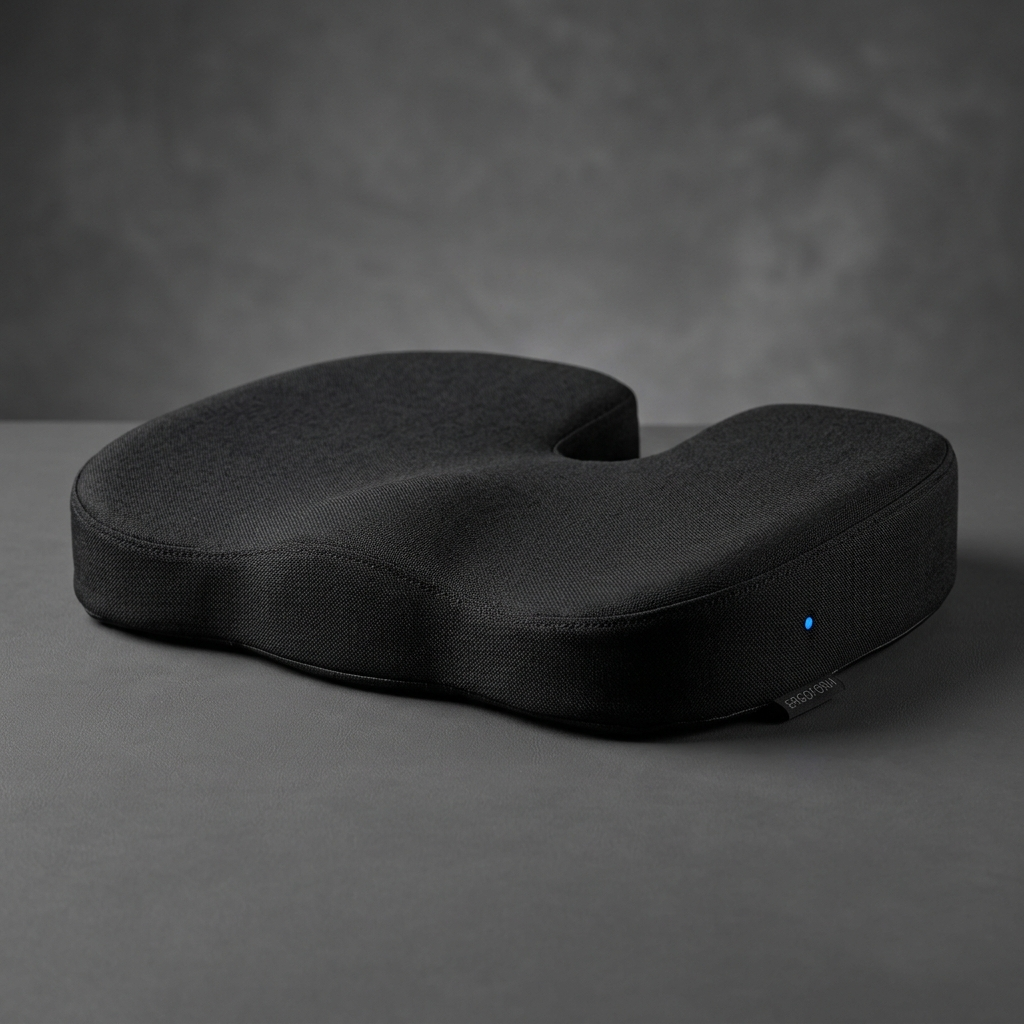
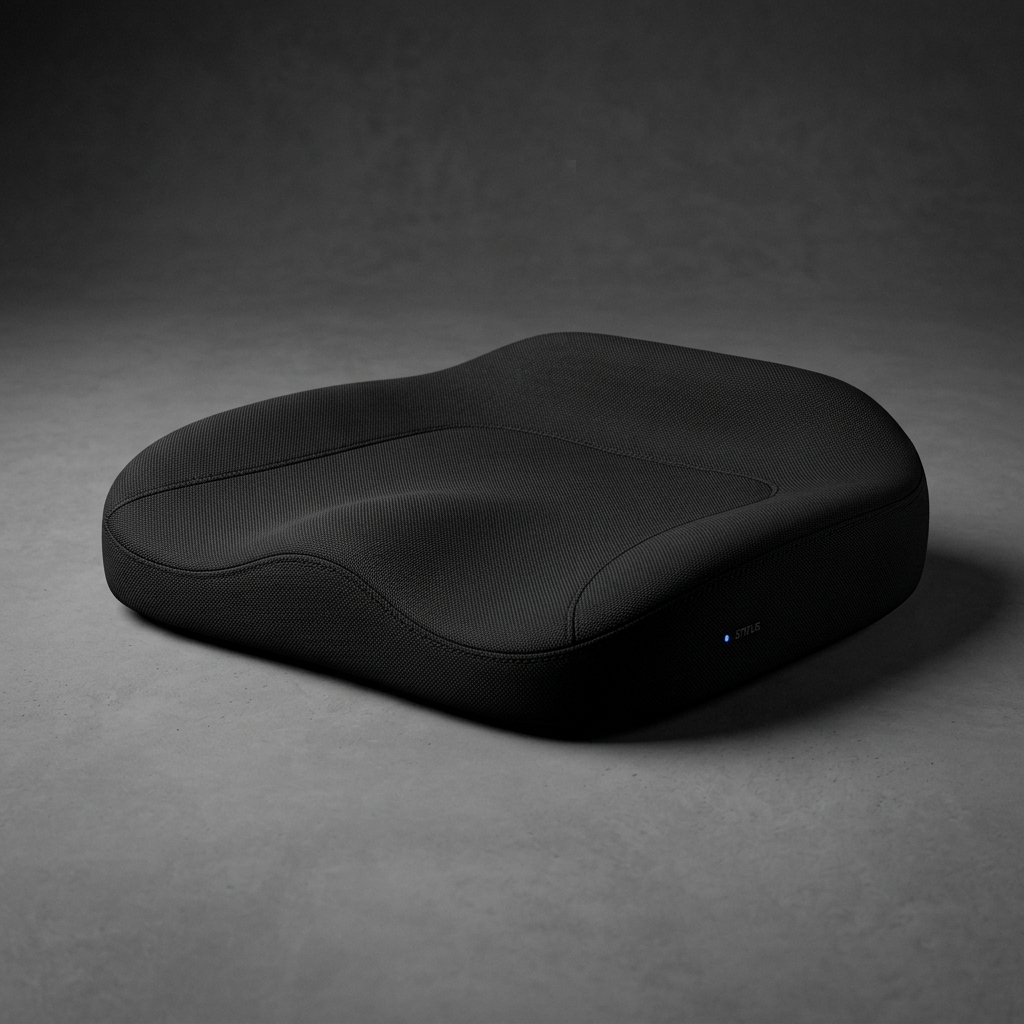
Update to full-back cushion images and significantly increase scroll speed across all pages

diff --git a/src/components/SolutionsScroll.tsx b/src/components/SolutionsScroll.tsx
@@ -1,42 +1,45 @@
 "use client";
 import React, { useRef } from "react";
 import { motion, useScroll, useTransform, useSpring } from "framer-motion";
-import { SparklesCore } from "./ui/SparklesCore";
+import { AlertCircle, Zap, Shield, Heart } from "lucide-react";
 
-const problems = [
+const solutions = [
   {
     title: "The Silent Crisis",
-    description: "Modern work environments force us into static positions for hours, leading to chronic back pain and long-term spinal issues.",
-    image: "/problem-1.png",
+    problem: "Poor sitting habits cost the global economy $120B in healthcare every year.",
+    solution: "Smart-Cushion detects micro-posture shifts before they become chronic pain.",
+    icon: AlertCircle,
     color: "text-red-500",
-    glow: "rgba(239, 68, 68, 0.4)"
+    image: "/problem-1.png"
   },
   {
     title: "Concentration Drain",
-    description: "Poor posture restricted blood flow and oxygen to the brain, causing fatigue and a significant drop in mental focus.",
-    image: "/problem-2.png",
+    problem: "Discomfort reduces cognitive performance by 25% within just 2 hours.",
+    solution: "Stay in the flow zone with gentle ergonomic reminders that keep you focused.",
+    icon: Zap,
     color: "text-yellow-500",
-    glow: "rgba(234, 179, 8, 0.4)"
+    image: "/problem-2.png"
   },
   {
     title: "Spinal Integrity",
-    description: "Continuous pressure on lumbar discs can lead to permanent damage. Early detection is the only true prevention.",
-    image: "/problem-3.png",
-    color: "text-orange-500",
-    glow: "rgba(249, 115, 22, 0.4)"
+    problem: "Long-term slouching leads to permanent vertebral misalignment.",
+    solution: "Our medical-grade sensors ensure your spine maintains its natural S-curve.",
+    icon: Shield,
+    color: "text-blue-500",
+    image: "/problem-3.png"
   },
   {
     title: "Health Ecosystem",
-    description: "Sitting is the new smoking. Without active monitoring, the risks of cardiovascular and metabolic issues increase daily.",
-    image: "/problem-4.png",
-    color: "text-rose-500",
-    glow: "rgba(244, 63, 94, 0.4)"
-  }
+    problem: "Most health tracking stops the moment you sit down at your desk.",
+    solution: "Integrate your sitting data into your complete wellness profile automatically.",
+    icon: Heart,
+    color: "text-emerald-500",
+    image: "/problem-4.png"
+  },
 ];
 
 export const SolutionsScroll = () => {
   const containerRef = useRef<HTMLDivElement>(null);
-  
   const { scrollYProgress } = useScroll({
     target: containerRef,
     offset: ["start start", "end end"],
@@ -48,110 +51,130 @@ export const SolutionsScroll = () => {
     restDelta: 0.001,
   });
 
-  const itemsCount = problems.length + 2; 
+  // 1 Intro + 4 Solutions + 1 Closing = 6 sections
+  const sections = Array.from({ length: 6 });
+  const itemsCount = sections.length;
 
   return (
-    <div ref={containerRef} className="relative h-[800vh] bg-black">
+    <div ref={containerRef} className="relative h-[500vh] bg-neutral-950 scroll-snap-container">
+      {/* Invisible Snap Points */}
+      <div className="absolute inset-0 pointer-events-none">
+        {sections.map((_, i) => (
+          <div key={i} className="h-[calc(500vh/6)] w-full" style={{ scrollSnapAlign: "start" }} />
+        ))}
+      </div>
+
       <div className="sticky top-0 h-screen w-full flex items-center overflow-hidden">
-        
-        {/* Background Sparkles */}
-        <div className="absolute inset-0 z-0">
-          <SparklesCore
-            id="solutionsParticles"
-            background="transparent"
-            minSize={0.4}
-            maxSize={1.2}
-            particleDensity={50}
-            className="w-full h-full"
-            particleColor="#FFFFFF"
-          />
+        {/* Atmospheric Background */}
+        <div className="absolute inset-0 opacity-20">
+          <div className="absolute top-0 left-0 w-full h-full bg-[radial-gradient(circle_at_50%_50%,#3b82f633,transparent_70%)]" />
         </div>
 
-        <div className="relative w-full h-full">
-          
-          {/* 0. Intro Slide */}
-          <motion.div
-            style={{
-              opacity: useTransform(smoothProgress, [0, 0.1, 0.15], [1, 1, 0]),
-              y: useTransform(smoothProgress, [0, 0.1, 0.15], [0, 0, -50]),
-            }}
-            className="absolute inset-0 flex flex-col items-center justify-center text-center px-4"
-          >
-            <h1 className="text-5xl md:text-9xl font-bold text-white mb-8 tracking-tighter">
-              A Journey through <br/> <span className="text-primary italic">the Problem</span>
-            </h1>
-            <p className="text-xl text-neutral-400 max-w-2xl leading-relaxed">
-              Before we talk about the solution, we must understand the silent impact of our modern lifestyle on our bodies.
-            </p>
-            <motion.div 
-              animate={{ y: [0, 10, 0] }}
-              transition={{ duration: 2, repeat: Infinity }}
-              className="mt-12 text-primary/40 text-xs font-mono tracking-[0.5em] uppercase"
+        <div className="container mx-auto px-6 relative z-10">
+          <div className="relative h-[80vh]">
+            
+            {/* Intro Slide */}
+            <motion.div
+              style={{
+                opacity: useTransform(smoothProgress, [0, 0.12, 0.18], [1, 1, 0]),
+                y: useTransform(smoothProgress, [0, 0.12, 0.18], [0, 0, -50]),
+              }}
+              className="absolute inset-0 flex flex-col justify-center items-center text-center"
             >
-              Scroll to explore the crisis
+              <h2 className="text-5xl lg:text-8xl font-bold text-white mb-8 tracking-tighter">
+                A Journey through <br/>
+                <span className="text-primary italic text-gradient bg-clip-text text-transparent bg-gradient-to-r from-blue-500 to-cyan-400">
+                  the Problem.
+                </span>
+              </h2>
+              <p className="text-xl text-neutral-400 max-w-2xl leading-relaxed">
+                Understanding the silent impact of sedentary lifestyles is the first step toward a revolutionary recovery.
+              </p>
             </motion.div>
-          </motion.div>
 
-          {/* 1-4. Problem Slides with Illustrations */}
-          {problems.map((prob, index) => {
-            const activePoint = (index + 1.2) / itemsCount;
-            const range = 0.08;
+            {/* Solution Slides */}
+            {solutions.map((item, index) => {
+              const activePoint = (index + 1.2) / itemsCount;
+              const range = 0.08;
 
-            const opacity = useTransform(smoothProgress, [activePoint - range, activePoint, activePoint + range], [0, 1, 0]);
-            const scale = useTransform(smoothProgress, [activePoint - range, activePoint, activePoint + range], [0.95, 1, 0.95]);
-            const x = useTransform(smoothProgress, [activePoint - range, activePoint, activePoint + range], [30, 0, -30]);
+              const opacity = useTransform(smoothProgress, [activePoint - range, activePoint, activePoint + range], [0, 1, 0]);
+              const x = useTransform(smoothProgress, [activePoint - range, activePoint, activePoint + range], [100, 0, -100]);
+              const scale = useTransform(smoothProgress, [activePoint - range, activePoint, activePoint + range], [0.9, 1, 0.9]);
 
-            return (
-              <motion.div
-                key={index}
-                style={{ opacity, scale, x }}
-                className="absolute inset-0 flex flex-col lg:flex-row items-center justify-center px-10 lg:px-32 gap-16"
-              >
-                {/* Illustration Column */}
-                <div className="flex-1 w-full max-w-2xl relative group">
-                  <div className="absolute -inset-4 bg-gradient-to-tr from-primary/20 to-transparent rounded-[2rem] blur-2xl opacity-50 group-hover:opacity-75 transition-opacity" />
-                  <div className="relative rounded-[2rem] overflow-hidden border border-white/10 shadow-2xl shadow-black/50">
+              return (
+                <motion.div
+                  key={index}
+                  style={{ opacity, x, scale }}
+                  className="absolute inset-0 flex flex-col lg:flex-row items-center gap-12 lg:gap-20"
+                >
+                  {/* Left Side: Cinematic Illustration */}
+                  <div className="flex-1 w-full h-[40vh] lg:h-[60vh] rounded-[2.5rem] overflow-hidden border border-white/10 shadow-2xl relative group">
                     <img 
-                      src={prob.image} 
-                      alt={prob.title} 
-                      className="w-full h-auto object-cover transform transition-transform duration-700 group-hover:scale-105"
+                      src={item.image} 
+                      alt={item.title} 
+                      className="w-full h-full object-cover transition-transform duration-700 group-hover:scale-110" 
                     />
                     <div className="absolute inset-0 bg-gradient-to-t from-black/80 via-transparent to-transparent" />
+                    <div className="absolute bottom-8 left-8">
+                       <div className={`p-4 rounded-2xl bg-black/50 backdrop-blur-md border border-white/10 ${item.color}`}>
+                         <item.icon size={32} />
+                       </div>
+                    </div>
                   </div>
-                </div>
 
-                {/* Text Column */}
-                <div className="flex-1 text-left">
-                  <span className="text-sm font-mono text-primary mb-4 block uppercase tracking-[0.3em]">Crisis Chapter 0{index + 1}</span>
-                  <h2 className="text-4xl lg:text-7xl font-bold text-white mb-8 leading-tight">
-                    {prob.title}
-                  </h2>
-                  <p className="text-xl lg:text-2xl text-neutral-400 max-w-xl leading-relaxed">
-                    {prob.description}
-                  </p>
-                </div>
-              </motion.div>
-            );
-          })}
+                  {/* Right Side: Text Content */}
+                  <div className="flex-1 text-left">
+                    <span className={`text-sm font-mono uppercase tracking-widest mb-4 block ${item.color}`}>
+                      Challenge {index + 1}
+                    </span>
+                    <h3 className="text-4xl lg:text-6xl font-bold text-white mb-8 leading-tight">
+                      {item.title}
+                    </h3>
+                    
+                    <div className="space-y-8">
+                      <div className="p-6 rounded-2xl bg-white/5 border border-white/10 backdrop-blur-sm">
+                        <p className="text-red-400/80 text-sm font-bold uppercase mb-2">The Crisis</p>
+                        <p className="text-lg text-neutral-300">{item.problem}</p>
+                      </div>
+                      
+                      <div className="p-6 rounded-2xl bg-primary/10 border border-primary/20 backdrop-blur-sm">
+                        <p className="text-primary text-sm font-bold uppercase mb-2">The Solution</p>
+                        <p className="text-lg text-white font-medium">{item.solution}</p>
+                      </div>
+                    </div>
+                  </div>
+                </motion.div>
+              );
+            })}
 
-          {/* 5. Outro Slide */}
-          <motion.div
-            style={{
-              opacity: useTransform(smoothProgress, [0.9, 0.95], [0, 1]),
-              y: useTransform(smoothProgress, [0.9, 0.95], [50, 0]),
-            }}
-            className="absolute inset-0 flex flex-col items-center justify-center text-center px-4"
-          >
-            <h2 className="text-4xl lg:text-8xl font-bold text-white mb-12 leading-tight tracking-tighter">
-              Understanding is <br/> 
-              <span className="text-primary italic font-serif">the first step.</span>
-            </h2>
-            <a href="/features" className="px-12 py-6 bg-primary text-white rounded-full font-bold text-2xl hover:scale-105 transition-transform shadow-[0_0_50px_rgba(var(--primary),0.3)]">
-              Discover the Solution
-            </a>
-          </motion.div>
+            {/* Closing Slide */}
+            <motion.div
+              style={{
+                opacity: useTransform(smoothProgress, [0.85, 0.95], [0, 1]),
+                y: useTransform(smoothProgress, [0.85, 0.95], [50, 0]),
+              }}
+              className="absolute inset-0 flex flex-col justify-center items-center text-center"
+            >
+              <h2 className="text-4xl lg:text-7xl font-bold text-white mb-6">
+                Engineering a <br/><span className="text-primary italic">Painless Future.</span>
+              </h2>
+              <p className="text-xl text-neutral-400 max-w-xl mb-10">
+                Join thousands of office professionals who have already reclaimed their spinal health.
+              </p>
+              <button className="px-12 py-5 bg-white text-black rounded-full font-bold text-xl hover:bg-primary hover:text-white transition-all shadow-[0_0_30px_rgba(255,255,255,0.2)]">
+                Get Started Now
+              </button>
+            </motion.div>
+
+          </div>
         </div>
       </div>
+      
+      <style jsx>{`
+        .scroll-snap-container {
+          scroll-snap-type: y mandatory;
+        }
+      `}</style>
     </div>
   );
 };

diff --git a/src/components/CircularDashboard.tsx b/src/components/CircularDashboard.tsx
@@ -68,7 +68,7 @@ export const CircularDashboard = () => {
   });
 
   const totalFeatures = dashboardViews.length;
-  // Intro (0) + 5 Views (1-5) + CTA (6) = 7 sections
+  // Reduced total height for faster scrolling
   const sections = Array.from({ length: 7 });
   const itemsCount = sections.length; 
   const angleStep = 45;
@@ -81,11 +81,11 @@ export const CircularDashboard = () => {
   );
 
   return (
-    <div ref={containerRef} className="relative h-[700vh] bg-black scroll-snap-container">
-      {/* Invisible Snap Points */}
+    <div ref={containerRef} className="relative h-[500vh] bg-black scroll-snap-container">
+      {/* Invisible Snap Points (Faster spacing) */}
       <div className="absolute inset-0 pointer-events-none">
         {sections.map((_, i) => (
-          <div key={i} className="h-[100vh] w-full" style={{ scrollSnapAlign: "start" }} />
+          <div key={i} className="h-[calc(500vh/7)] w-full" style={{ scrollSnapAlign: "start" }} />
         ))}
       </div>
 
@@ -237,7 +237,7 @@ export const CircularDashboard = () => {
               style={{
                 opacity: useTransform(smoothProgress, [0.9, 0.95], [0, 1]),
                 y: useTransform(smoothProgress, [0.9, 0.95], [50, 0]),
-                pointerEvents: useTransform(smoothProgress, [0.9, 0.95], ["none", "auto"])
+                pointerEvents: useTransform(smoothProgress, [0.9, 1], ["none", "auto"])
               }}
               className="absolute inset-0 flex flex-col justify-center items-center text-center"
             >

diff --git a/src/components/CircularFeatures.tsx b/src/components/CircularFeatures.tsx
@@ -71,6 +71,7 @@ export const CircularFeatures = () => {
   });
 
   const totalFeatures = features.length;
+  // Reduced total height for faster scrolling
   const sections = Array.from({ length: 9 });
   const itemsCount = sections.length; 
 
@@ -84,11 +85,11 @@ export const CircularFeatures = () => {
   );
 
   return (
-    <div ref={containerRef} className="relative h-[900vh] bg-black scroll-snap-container">
-      {/* Invisible Snap Points */}
+    <div ref={containerRef} className="relative h-[600vh] bg-black scroll-snap-container">
+      {/* Invisible Snap Points (Faster spacing) */}
       <div className="absolute inset-0 pointer-events-none">
         {sections.map((_, i) => (
-          <div key={i} className="h-[100vh] w-full" style={{ scrollSnapAlign: "start" }} />
+          <div key={i} className="h-[calc(600vh/9)] w-full" style={{ scrollSnapAlign: "start" }} />
         ))}
       </div>
 
@@ -179,7 +180,7 @@ export const CircularFeatures = () => {
             </div>
           </motion.div>
 
-          {/* 1. Product Showcase Slide - REAL CUSHION IMAGES */}
+          {/* 1. Product Showcase Slide */}
           <motion.div
             style={{
               opacity: useTransform(smoothProgress, [0.14, 0.18, 0.22], [0, 1, 0]),